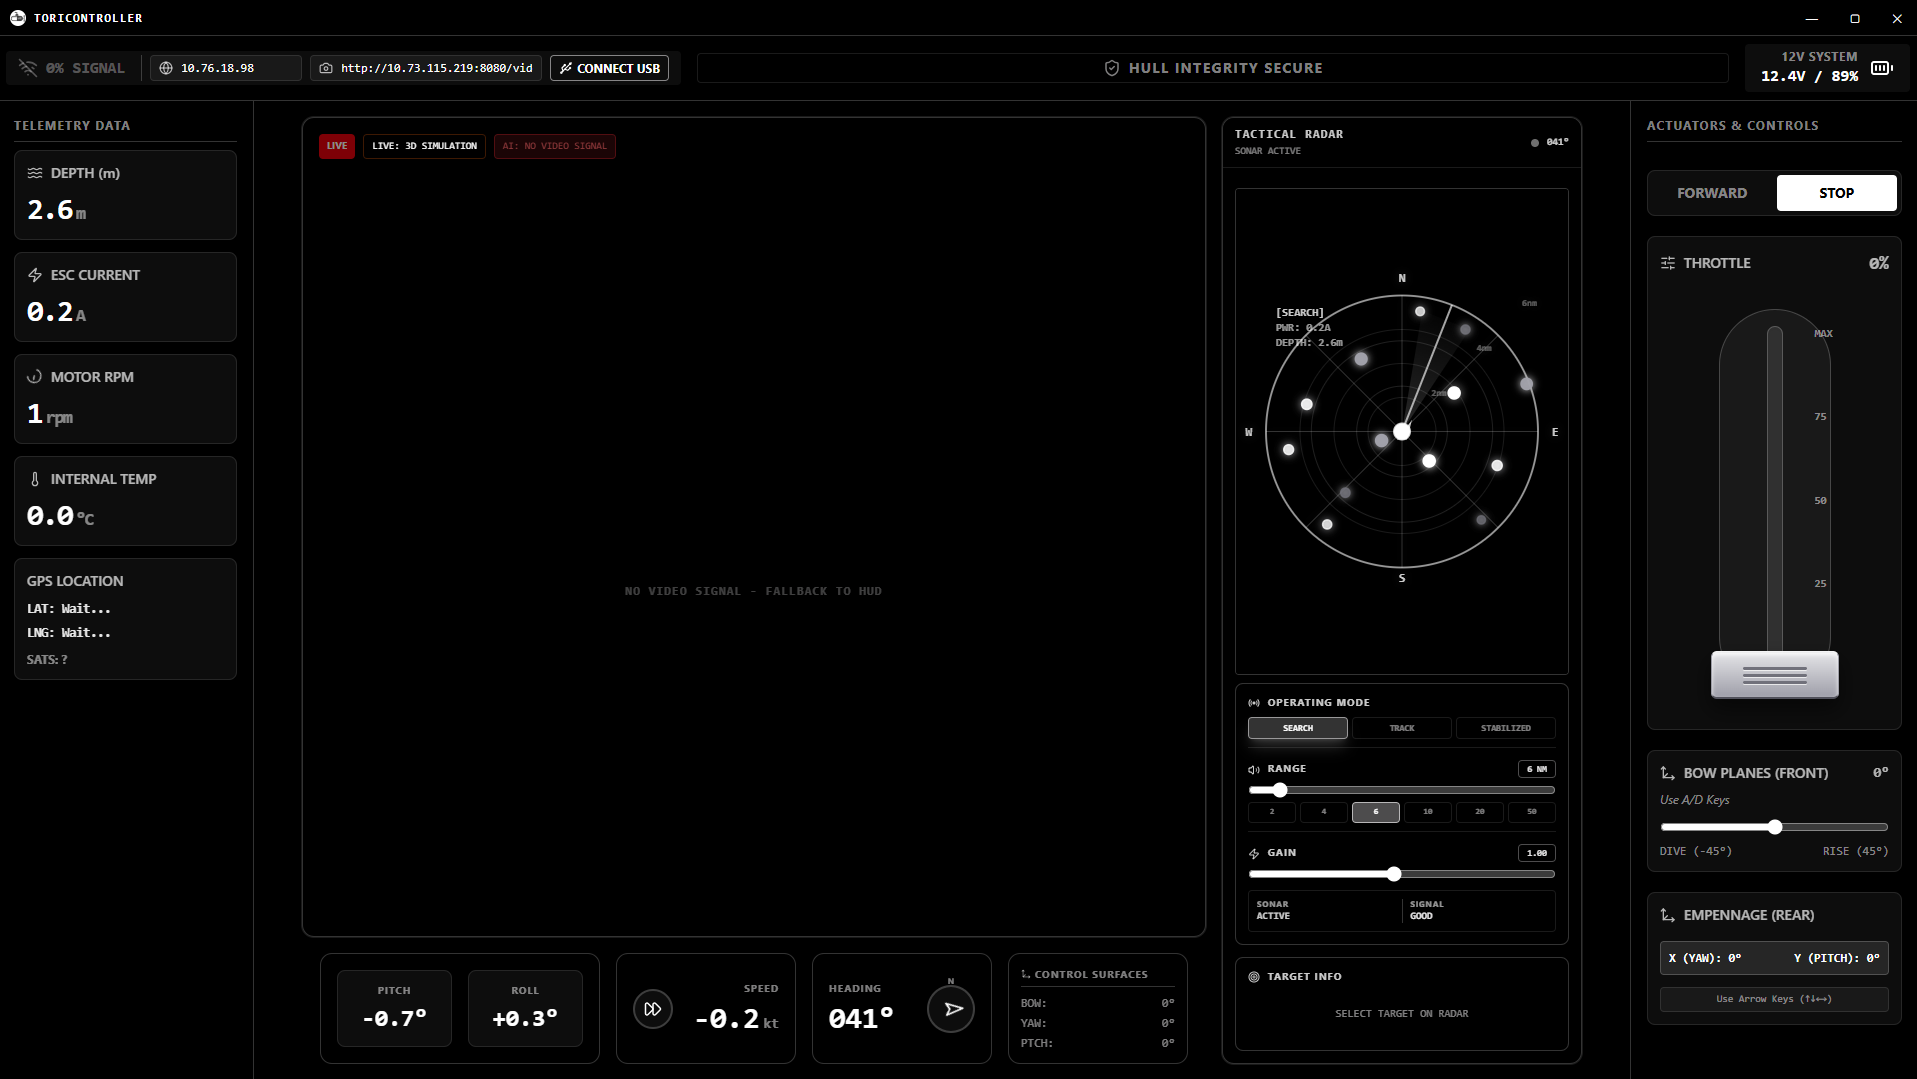
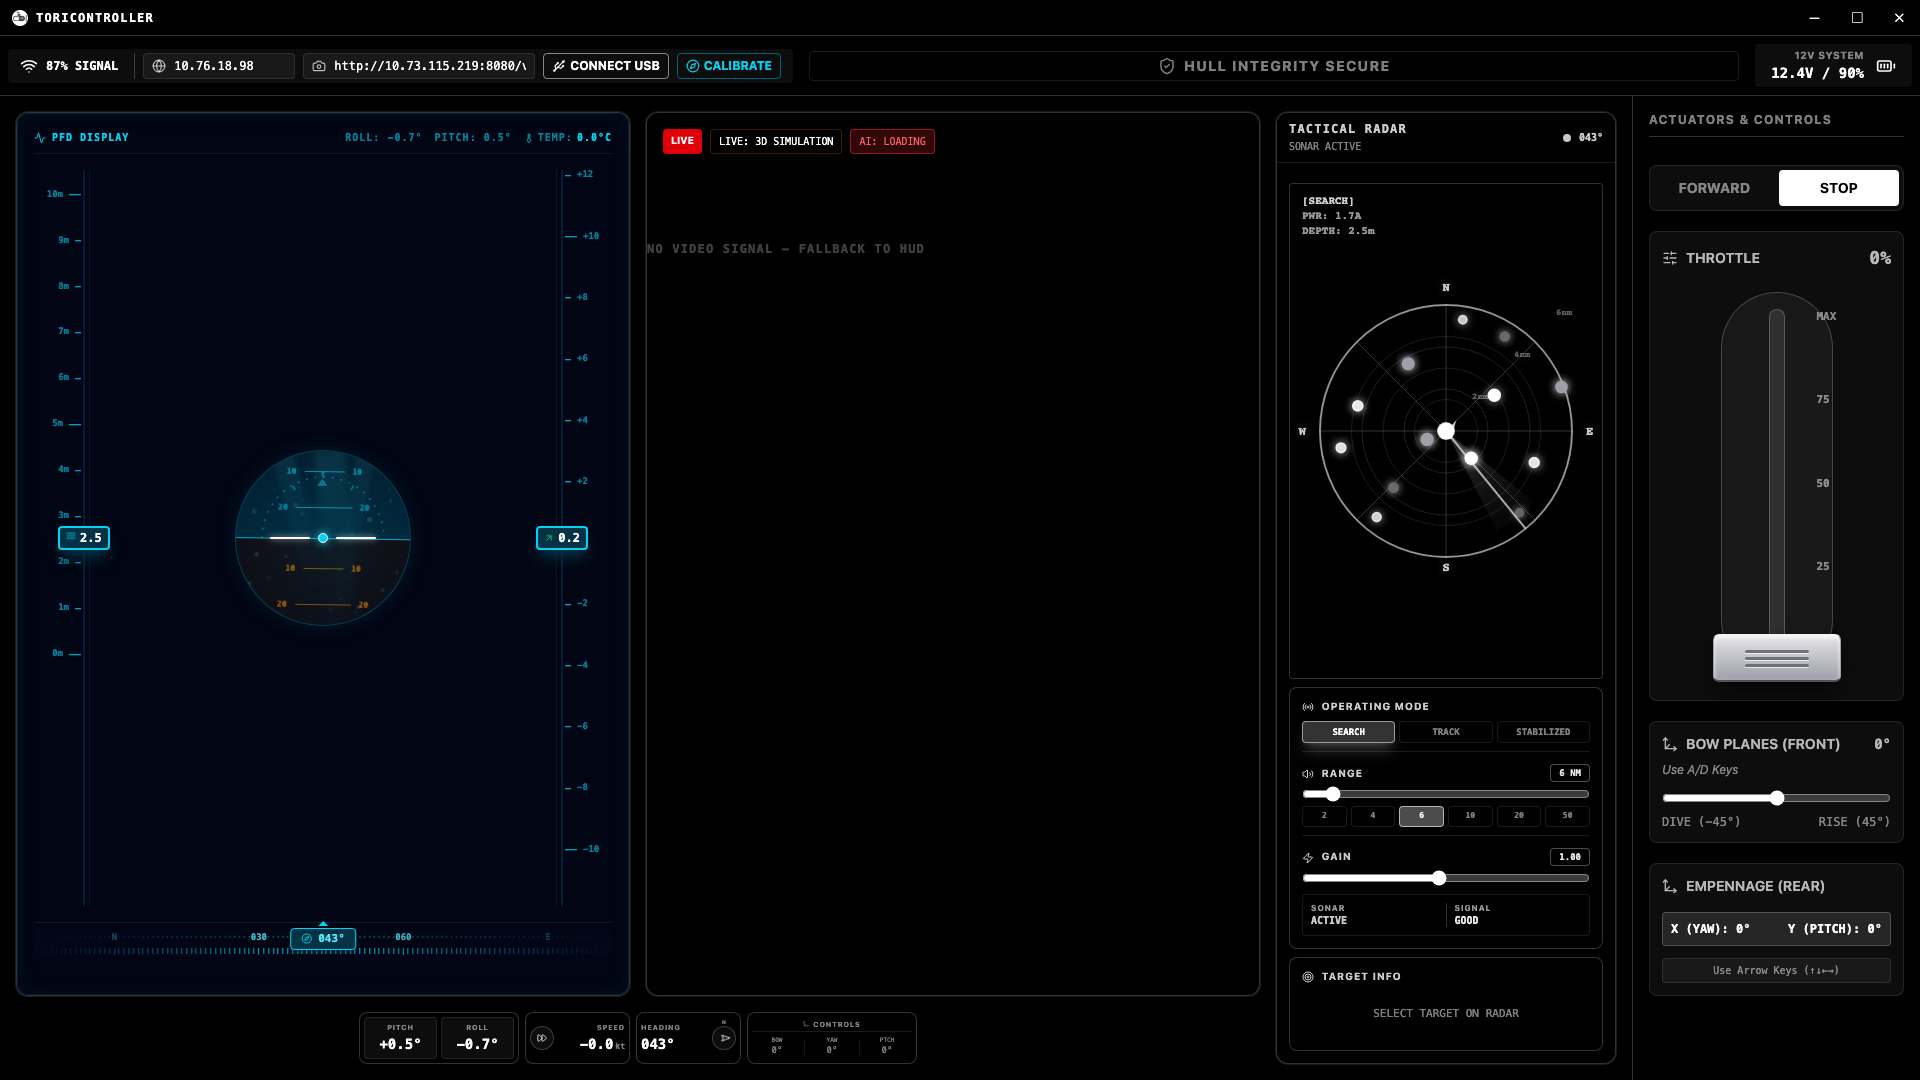
docs: add comprehensive README & dashboard screenshot, fix local IP camera CORS and SSL handshake issues

diff --git a/src/components/MainCenterView.jsx b/src/components/MainCenterView.jsx
@@ -14,6 +14,7 @@ const MainCenterView = ({ pitch = 0, roll = 0, heading = 0, speedKnots = 0, fron
     const [model, setModel] = useState(null);
     const [detectedObjects, setDetectedObjects] = useState([]);
     const [aiStatus, setAiStatus] = useState("LOADING");
+    const [isImageLoaded, setIsImageLoaded] = useState(false);
     const requestRef = useRef();
 
     useEffect(() => {
@@ -63,7 +64,7 @@ const MainCenterView = ({ pitch = 0, roll = 0, heading = 0, speedKnots = 0, fron
         offCanvas.height = ch;
         const offCtx = offCanvas.getContext('2d');
 
-        const scale = Math.max(cw / nw, ch / nh);
+        const scale = Math.min(cw / nw, ch / nh);
         const rw = nw * scale;
         const rh = nh * scale;
         const ox = (cw - rw) / 2;
@@ -169,20 +170,42 @@ const MainCenterView = ({ pitch = 0, roll = 0, heading = 0, speedKnots = 0, fron
                         </span>
                     </div>
 
-                    <div className="text-white/50 flex flex-col items-center gap-2 absolute z-0 mt-32">
-                        <span className="text-xs font-mono tracking-widest font-bold opacity-50">NO VIDEO SIGNAL - FALLBACK TO HUD</span>
-                    </div>
+                    {!isImageLoaded && (
+                        <div className="text-white/50 flex flex-col items-center gap-2 absolute z-0 mt-32 w-full text-center select-none pointer-events-none">
+                            <span className="text-xs font-mono tracking-widest font-bold opacity-50">NO VIDEO SIGNAL - FALLBACK TO HUD</span>
+                        </div>
+                    )}
 
                     {/* Live Camera Feed */}
                     <img
                         ref={imgRef}
                         crossOrigin="anonymous"
-                        src={cameraUrl || "http://10.73.115.219/"}
+                        src={(() => {
+                            if (!cameraUrl) return "http://10.73.115.219/video";
+                            let trimmed = cameraUrl.trim();
+                            if (!/^https?:\/\//i.test(trimmed)) {
+                                trimmed = "http://" + trimmed;
+                            }
+                            try {
+                                const parsed = new URL(trimmed);
+                                if (parsed.pathname === "/" || parsed.pathname === "") {
+                                    parsed.pathname = "/video";
+                                }
+                                return parsed.toString();
+                            } catch (e) {
+                                return trimmed;
+                            }
+                        })()}
                         alt=""
+                        onLoad={(e) => {
+                            setIsImageLoaded(true);
+                            e.target.style.display = "block";
+                        }}
                         onError={(e) => {
+                            setIsImageLoaded(false);
                             e.target.style.display = "none";
                         }}
-                        className="absolute inset-0 w-full h-full object-cover z-10 pointer-events-none text-transparent"
+                        className="absolute inset-0 w-full h-full object-contain z-10 pointer-events-none text-transparent"
                     />
 
                     {/* Object Detection Overlay */}

diff --git a/README.md b/README.md
@@ -1,2 +1,133 @@
-## Project Preview
-![Project](./public/ToriController.png)
+# 🌐 ToriController 2.0
+
+> Next-Generation Robotic Submarine Control Dashboard & Pilot Telemetry Station.
+
+ToriController 2.0 is an advanced, high-tech desktop control interface built with **Electron**, **React**, **Vite**, and **Tailwind CSS**. It is designed to act as the primary ground-station pilot terminal for custom autonomous/remotely operated underwater vehicles (ROVs/Submarines). The station establishes dual-redundant communication links via low-latency **USB Serial (Web Serial API)** or **Local WiFi (HTTP/WebSocket)** to monitor telemetry, map surroundings using sonar sweeps, and direct actuators in real time.
+
+---
+
+## 📸 Dashboard Interface
+
+![ToriController Dashboard](./public/ToriController.png)
+
+---
+
+## ✨ Core Features
+
+*   **⚡ Primary Flight Display (PFD):** Canvas-based artificial horizon indicating real-time submarine **Pitch**, **Roll**, and **Heading (Yaw)**. Includes vertical indicator tapes for tracking depth relative to limits.
+*   **📡 Tactical Sonar Radar:** A sweeping polar radar interface visualizing surrounding target vectors, complete with adjustable gain, multi-range sweeps (2m - 50m), and operating modes (*Search*, *Track*, *Stabilized*).
+*   **🤖 TensorFlow AI Target Tracking:** Integrated **TensorFlow.js (COCO-SSD)** engine capable of analyzing live camera streams to detect, outline, and track targets (marine life, divers, obstacles) autonomously.
+*   **🩺 Diagnostics & Telemetry Gauges:** Real-time health monitoring including depth (m), ESC current draw (Amps), motor RPM, and internal motherboard temperature. Includes automatic warning thresholds for cavitation risk, motor stalls, and overheating.
+*   **🔌 Dual Connection Link:** Dual-routed command transmitter utilizing the **Web Serial API** for direct tethered USB communication (e.g., CH340, CP210x, ESP32 USB) or asynchronous WiFi fetch requests when untethered.
+*   **🔧 Sensor Calibration:** Guided IMU/gyroscope 10-second calibration routine to establish zero-relative pitch, roll, and yaw angles relative to flat levels.
+
+---
+
+## ⌨️ Pilot Key Bindings
+
+Pilots can maneuver the submarine using standard keyboard shortcuts:
+
+| Key Binding | Action / Command | Submarine Actuator Response |
+| :--- | :--- | :--- |
+| **`W`** | Speed Up / Accelerate | Increments throttle limit / sets forward drive direction. |
+| **`S`** | Speed Down / Decelerate | Decrements throttle limit (stops when throttle hits `0`). |
+| **`A`** | Steer Port (Left) | Synchronizes front bow planes and rear rudders for a left turn. |
+| **`D`** | Steer Starboard (Right) | Synchronizes front bow planes and rear rudders for a right turn. |
+| **`ArrowUp`** | Empennage Pitch Up | Deflects rear elevator fins upward to rise. |
+| **`ArrowDown`** | Empennage Pitch Down | Deflects rear elevator fins downward to dive. |
+| **`ArrowLeft`** | Empennage Yaw Left | Angles rear vertical rudder left. |
+| **`ArrowRight`** | Empennage Yaw Right | Angles rear vertical rudder right. |
+| **`Spacebar`** | **EMERGENCY STOP** | Neutralizes thrusters, centers all fins, and stops movement. |
+
+---
+
+## 📡 Serial Communication Protocol
+
+ToriController communicates with onboard MCUs (such as ESP32 or Arduino) using a structured ASCII-based line-terminated protocol over 115200 baud rate.
+
+### 1. Control Commands (Outgoing to Submarine)
+Commands are appended with `\r\n` line endings.
+
+*   **Thruster Control:** 
+    *   `DIR:FWD` — Set rotation direction to Forward.
+    *   `DIR:REV` — Set rotation direction to Reverse.
+    *   `STOP` — Stop thrusters completely.
+    *   `SPD:<0-255>` — Set thruster motor speed using 8-bit PWM (e.g., `SPD:128`).
+*   **Servo Control:**
+    *   `F_SRV:<angle>` — Set Bow Plane (Front Fin) angle. Center is `97` (e.g., `F_SRV:117` or `F_SRV:77`).
+    *   `B_SRV:<angle>` — Set Rudder (Back Fin X-axis) angle. Center is `97`.
+
+### 2. Telemetry Sentences (Incoming to Dashboard)
+Onboard systems stream sensor sentences as line-terminated text:
+
+*   **IMU Telemetry:** `IMU:<pitch>,<roll>,<yaw>`
+    *   *Example:* `IMU:0.5,-1.2,43.2`
+*   **Internal Temperature:** `TMP:<temp_celsius>` or `TEMP OF THE MAIN BOARD:<temp> °C`
+    *   *Example:* `TMP:32.4`
+*   **GPS Sentences:** `GPS: <lat>,<lng>` and `GPS_SAT: <satellite_count>`
+    *   *Example:* `GPS: 23.8103,90.4125` / `GPS_SAT: 8`
+    *   *Fault state:* `GPS: WIRING_ERROR` will trigger an alert on the panel diagnostics layout.
+
+---
+
+## 📂 Project Architecture
+
+```markdown
+├── electron/
+│   ├── main.cjs        # Main Electron process (frame actions, Web Serial permissions)
+│   └── preload.js      # Context isolation bridge exposing minimize/maximize/close actions
+├── public/
+│   └── ToriController.png  # High-resolution application preview screenshot
+├── src/
+│   ├── components/
+│   │   ├── SubmarineDashboard.jsx   # Top-level state coordinator and serial loop
+│   │   ├── PrimaryFlightDisplay.jsx # Attitude and horizon visualization canvas
+│   │   ├── AdvancedRadarNavigation.jsx # Sonar polar sweeps and target overlays
+│   │   ├── ControlPanel.jsx         # Joystick and manual slide actuators
+│   │   ├── TelemetryPanel.jsx       # Real-time health gauges and warnings
+│   │   └── TitleBar.jsx             # Frameless styling header with platform buttons
+│   ├── App.jsx                      # App shell wrapping components
+│   ├── main.jsx                     # Entrypoint
+│   └── index.css                    # Design system and tailwind rules
+└── package.json                     # Scripts and dependencies (lucide, tensorflow, electron)
+```
+
+---
+
+## 🛠️ Installation & Getting Started
+
+### 📋 Prerequisites
+*   [Node.js](https://nodejs.org/) (v18.x or later recommended)
+*   [npm](https://www.npmjs.com/)
+
+### 🚀 Running the App
+1.  **Clone the repository:**
+    ```bash
+    git clone https://github.com/your-username/ToriController-2.0.git
+    cd ToriController-2.0
+    ```
+2.  **Install dependencies:**
+    ```bash
+    npm install
+    ```
+3.  **Run Development Mode (Electron + Vite):**
+    This command boots the Vite local server and concurrently launches the desktop Electron container, automatically establishing connection permissions.
+    ```bash
+    npm run start
+    ```
+4.  **Run Web-Only Mode (Browser Development):**
+    ```bash
+    npm run dev
+    ```
+
+### 📦 Production Build & Packaging
+To compile the React production code and pack the app into a native desktop installer (`.dmg` on macOS, `.exe` on Windows, or `.AppImage` on Linux):
+```bash
+npm run dist
+```
+Build outputs will be generated inside the `dist-electron` folder.
+
+---
+
+## 🛡️ License
+Distributed under the MIT License. See `LICENSE` for more information.